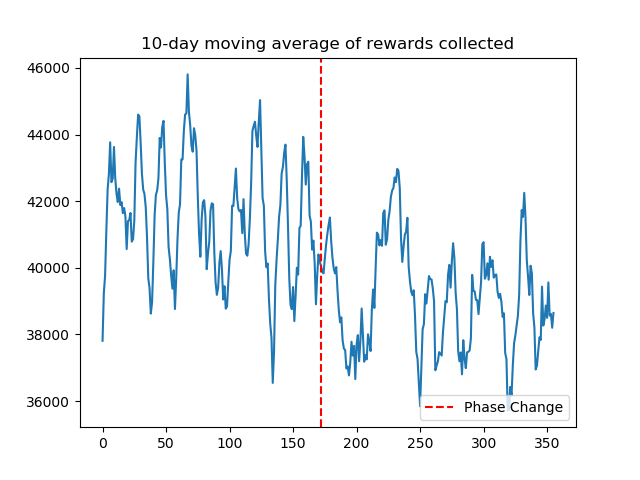
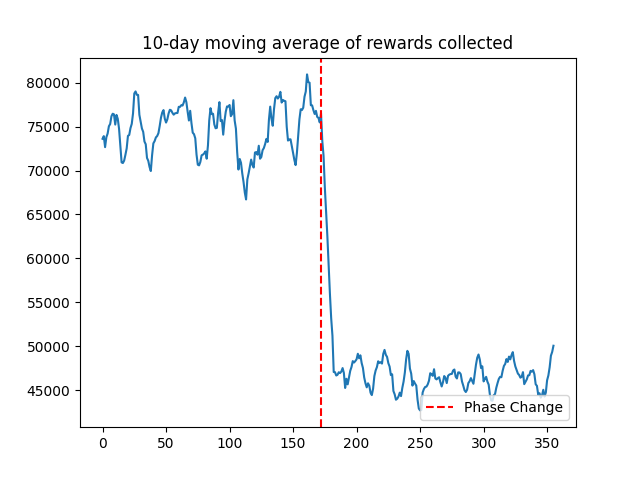
Update task7 and ucb sliding window matching learner
Change second phase conversion rates and minor fix of ucb confidence bound
calculation + Susbequent learning results and graphs update

diff --git a/pricing/learners/ucb.py b/pricing/learners/ucb.py
@@ -28,16 +28,20 @@ class SW_UCB(UCB):
         super(SW_UCB, self).__init__(n_arms)
         self.window_size = window_size
 
+    def pull_arm(self):
+        for a in range(self.n_arms):
+            self.clear_outside_window_rewards(a)
+        return np.argmax(self.empirical_means + self.confidence)
+
     def update(self, pulled_arm, reward):
+        self.update_observations(pulled_arm, reward)
         total_samples = 0
         for a in range(self.n_arms):
             total_samples += len(self.rewards_per_arm[a])
-        for a in range(self.n_arms):
-            self.clear_outside_window_rewards(a)
-            n_samples = len(self.rewards_per_arm[a])
-            self.confidence[a] = (2 * np.log(total_samples) / n_samples) ** 0.5 if n_samples > 0 else np.inf
-        self.update_observations(pulled_arm, reward)
-
+        n_samples = len(self.rewards_per_arm[pulled_arm])
+        self.empirical_means[pulled_arm] = np.mean(np.array([r[0] for r in self.rewards_per_arm[pulled_arm]])) \
+            if n_samples > 0 else 0
+        self.confidence[pulled_arm] = (2 * np.log(min(self.t, self.window_size)) / n_samples) ** 0.5 if n_samples > 0 else np.inf
 
     # Remove rewards that are outside of the window for a given arm. Since the array is ordered by the timestamp and
     # we execute this function every round, we only need to check the timestamp of the first element
@@ -50,10 +54,14 @@ class SW_UCB(UCB):
             if r[1] >= min_timestamp:
                 temp_reward_list.append(r)
         self.rewards_per_arm[arm] = temp_reward_list
-        if len(temp_reward_list) > 0:
-            self.empirical_means[arm] = np.mean(np.array([r[0] for r in self.rewards_per_arm[arm]]))
-        else:
-            self.empirical_means[arm] = 0
+
+        total_samples = 0
+        for a in range(self.n_arms):
+            total_samples += len(self.rewards_per_arm[a])
+
+        n_samples = len(self.rewards_per_arm[arm])
+        self.empirical_means[arm] = np.mean(np.array([r[0] for r in self.rewards_per_arm[arm]])) if n_samples > 0 else 0
+        self.confidence[arm] = (2 * np.log(min(self.t, self.window_size)) / n_samples) ** 0.5 if n_samples > 0 else np.inf
 
     def update_observations(self, pulled_arm, reward):
         self.rewards_per_arm[pulled_arm].append((reward, self.t))  # add a timestamp when an arm has been pulled
@@ -157,16 +165,32 @@ class SW_Matching_UCB(Matching_UCB):
         super().__init__(n_arms, n_rows, n_cols, col_promo)
         self.window_size = window_size
 
+    def pull_arms(self, promos_remaining):
+        for a in range(self.n_arms):
+            self.clear_outside_window_rewards(a)
+        upper_conf = self.empirical_means + self.confidence
+        upper_conf[np.isinf(upper_conf)] = 1e3
+        cost_matrix = -upper_conf.reshape(self.n_rows, self.n_cols)
+
+        # if there are no more promotion of a certain type we set the cost of that column as high as possible
+        for c in range(self.n_cols):
+            if self.col_promo[c] != 0:
+                if promos_remaining[self.col_promo[c]-1] == 0:
+                    for r in range(self.n_rows):
+                        cost_matrix[r][c] = np.inf
+
+        row_ind, col_ind = linear_sum_assignment(cost_matrix)
+        return row_ind, col_ind
+
     def update_one(self, pulled_arm, reward):
+        self.update_observations(pulled_arm, reward)
         total_samples = 0
         for a in range(self.n_arms):
             total_samples += len(self.rewards_per_arm[a])
-        for a in range(self.n_arms):
-            self.clear_outside_window_rewards(a)
-            n_samples = len(self.rewards_per_arm[a])
-            self.confidence[a] = (2 * np.log(total_samples) / n_samples) ** 0.5 if n_samples > 0 else np.inf
-        self.update_observations(pulled_arm, reward)
-
+        n_samples = len(self.rewards_per_arm[pulled_arm])
+        self.empirical_means[pulled_arm] = np.mean(np.array([r[0] for r in self.rewards_per_arm[pulled_arm]])) \
+            if n_samples > 0 else 0
+        self.confidence[pulled_arm] = (2 * np.log(min(self.t, self.window_size)) / n_samples) ** 0.5 if n_samples > 0 else np.inf
 
     # Remove rewards that are outside of the window for a given arm. Since the array is ordered by the timestamp and
     # we execute this function every round, we only need to check the timestamp of the first element
@@ -179,10 +203,14 @@ class SW_Matching_UCB(Matching_UCB):
             if r[1] >= min_timestamp:
                 temp_reward_list.append(r)
         self.rewards_per_arm[arm] = temp_reward_list
-        if len(temp_reward_list) > 0:
-            self.empirical_means[arm] = np.mean(np.array([r[0] for r in self.rewards_per_arm[arm]]))
-        else:
-            self.empirical_means[arm] = 0
+
+        total_samples = 0
+        for a in range(self.n_arms):
+            total_samples += len(self.rewards_per_arm[a])
+
+        n_samples = len(self.rewards_per_arm[arm])
+        self.empirical_means[arm] = np.mean(np.array([r[0] for r in self.rewards_per_arm[arm]])) if n_samples > 0 else 0
+        self.confidence[arm] = (2 * np.log(min(self.t, self.window_size)) / n_samples) ** 0.5 if n_samples > 0 else np.inf
 
     def update_observations(self, pulled_arm, reward):
         self.rewards_per_arm[pulled_arm].append((reward, self.t))  # add a timestamp when an arm has been pulled

diff --git a/task7.py b/task7.py
@@ -20,7 +20,7 @@ np.random.seed(41148)
 random.seed(41148)
 
 # time horizon
-T = 40
+T = 365
 N_PHASES = 2
 PHASE_LENGTH = int(T / N_PHASES)
 
@@ -61,8 +61,8 @@ conv_1 = np.array([[[0.45, 0.6, 0.57, 0.52, 0.37, 0.15, 0.08],
                     [0.5, 0.55, 0.51, 0.47, 0.42, 0.35, 0.21],
                     [0.45, 0.42, 0.35, 0.27, 0.14, 0.1, 0.05],
                     [0.65, 0.7, 0.67, 0.55, 0.3, 0.21, 0.11]]])
-conv_1[0] = np.clip(conv_1[1,0] - 0.2, 0.05, 1.)
-conv_1[1] = np.clip(conv_1[1,1] - 0.2, 0.05, 1.)
+conv_1[1,0,:] = np.clip(conv_1[1,0,:] - 0.2, 0.05, 1.)
+conv_1[1,1,:] = np.clip(conv_1[1,1,:] - 0.2, 0.05, 1.)
 
 # conversion of each class for each price candidate (axis 0) and promo (axis 1) of product 2
 conv_2 = np.array([[[[0.57, 0.6, 0.67, 0.69],
@@ -122,15 +122,15 @@ conv_2 = np.array([[[[0.57, 0.6, 0.67, 0.69],
                      [0.21, 0.29, 0.46, 0.5],
                      [0.18, 0.25, 0.34, 0.46],
                      [0.15, 0.21, 0.26, 0.35]]]])
-conv_2[1,2] = np.clip(conv_2[1,2] - 0.2, 0.05, 1.)
-conv_2[1,3] = np.clip(conv_2[1,3] - 0.2, 0.05, 1.)
+conv_2[1,2,:,:] = np.clip(conv_2[1,2,:,:] - 0.2, 0.05, 1.)
+conv_2[1,3,:,:] = np.clip(conv_2[1,3,:,:] - 0.2, 0.05, 1.)
 
 # two alternative settings for number of promos of each class
 N_PROMOS = 4
 promo_setting_1 = np.array([0.3, 0.15, 0.25])
 promo_setting_2 = np.array([0.25, 0.35, 0.2])
 
-promo_setting = promo_setting_2
+promo_setting = promo_setting_1
 
 promo_assignment = np.array([[1, 0, 0, 0],
                              [0, 1, 0, 0],
